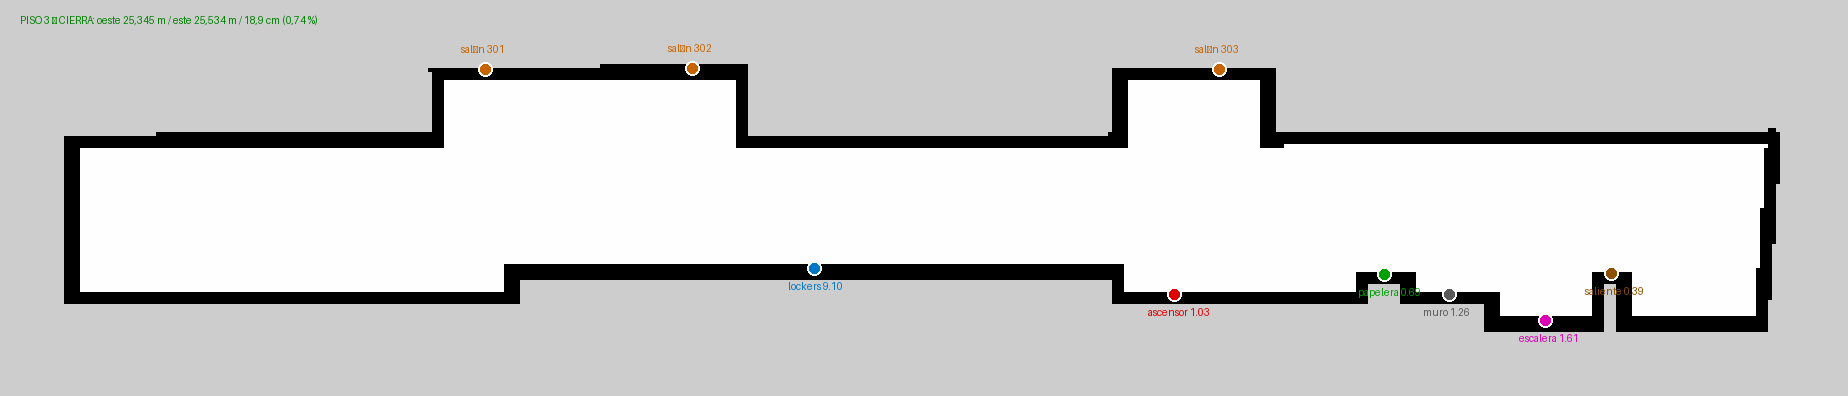
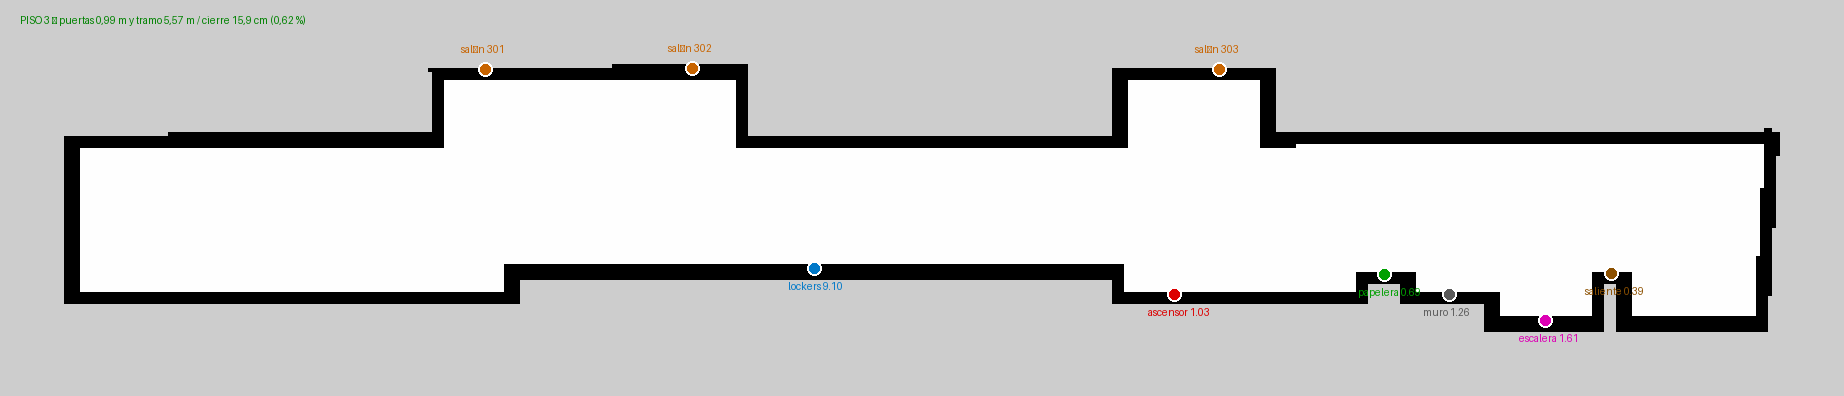
Piso 3: los dos valores que el equipo midió distintos del piso 4
La pared este del piso 3 se venía heredando entera del piso 4. No es idéntica:
el tramo que allí mide 5,60 m aquí mide 5,57 m, medido en el sitio. Los vanos de
puerta ya estaban en 0,99 m, heredados de la corrección anterior, y se
comprueban al generar.

  piso3   oeste 25,345 m · este 25,504 m · cierre 16 cm (0,62 %)

Antes 18,9 cm. Los dos pisos quedan ahora en el mismo orden de cierre: 0,32 % el
piso 4 y 0,62 % el piso 3, muy por debajo del ±2 % exigido.

diff --git a/herramientas/generar_piso_desde_medidas.py b/herramientas/generar_piso_desde_medidas.py
@@ -123,8 +123,11 @@ PISO3 = {
         (0.39, -0.70,  'saliente'),       # ...a lo largo de 39 cm, y vuelve
         (2.05,  0.00,  'pared sur'),
     ],
-    # Misma geometria que el piso 4, con los salones renumerados a la planta.
-    'este': [(t[0], t[1], '3' + t[2][1:]) if t[0] == 'p' else t
+    # Misma geometria que el piso 4 salvo dos cosas, medidas en este piso:
+    # los salones van renumerados, y el tramo que en el piso 4 mide 5,60 m
+    # aqui mide 5,57 m.
+    'este': [(t[0], t[1], '3' + t[2][1:]) if t[0] == 'p'
+             else (('r', 5.57) if t == ('r', 5.600) else t)
              for t in PISO4['este']],
     'aberturas': {'ascensor': 'llegada', 'escalera': 'transferencia'},
 }
